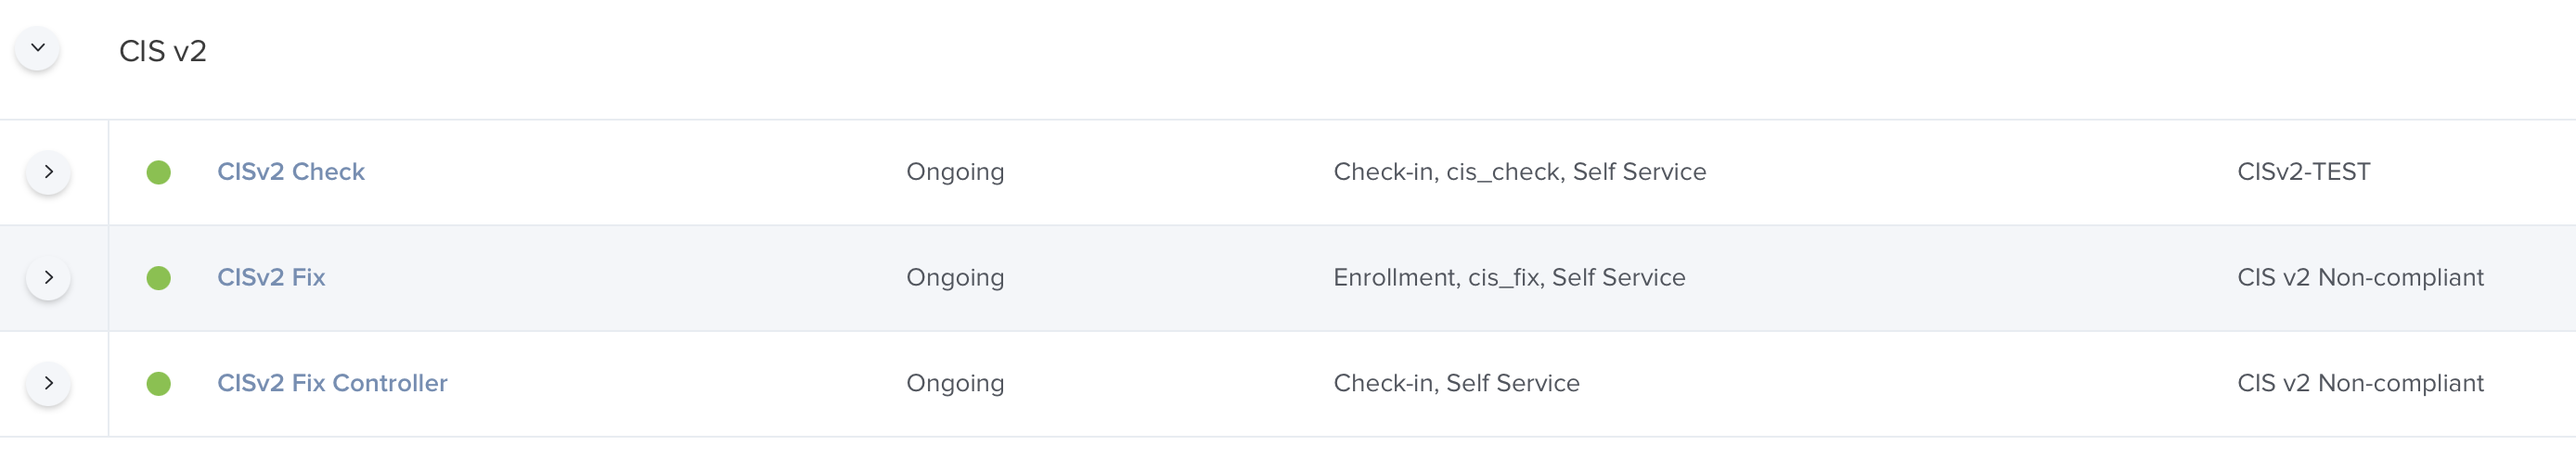
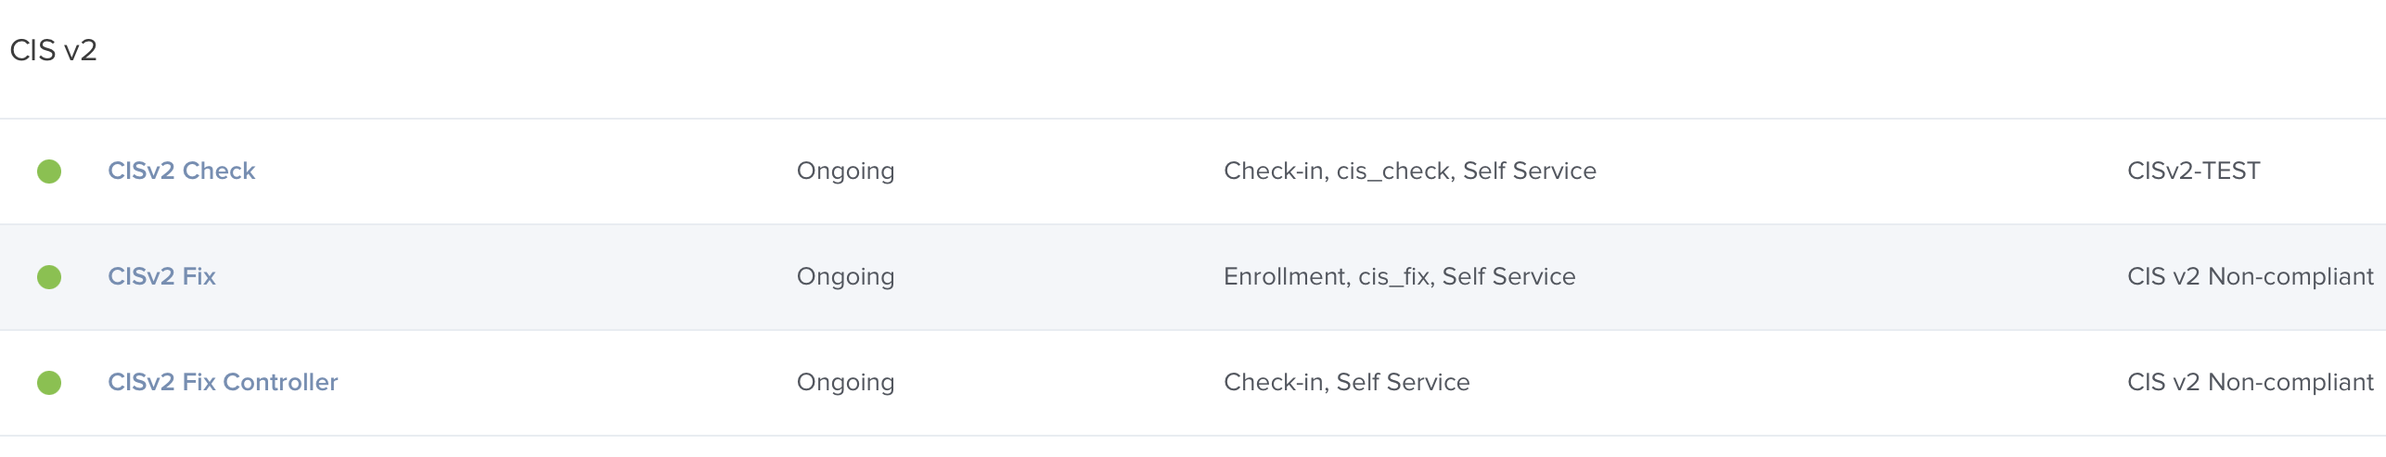
Added screenshots

diff --git a/HOWTO.md b/HOWTO.md
@@ -64,7 +64,7 @@ Now go through the rules a second time.
 
 Some of the rules you can't set it in the Jamf GUI but you can set with a custom settings upload. For these create a separate config profile titled with the number and name of the rule. 
 
-An example of this would be the rule I have, "7.06 Enable Firewall Logging". You can see in the "Remediation Description" that we should create a config profile and the payload is `com.apple.security.firewall`. Look in the directory `build\cis_lvl2_puck\mobileconfigs\preferences` for a file with the same name as the payload. Create the profile "7.0.6 Enable Firewall Logging" and in the section "Application & Custom Settings" add an "Upload". The "Preference Domain" is the name of our file (minus the ".plist") and the contents of the file is copied in to the "Property List" field. Save the profile.
+An example of this would be the rule I have, "7.06 Enable Firewall Logging". You can see in the "Remediation Description" that we should create a config profile and the payload is `com.apple.security.firewall`. Look in the directory `build\cis_lvl2_puck\mobileconfigs\preferences` for a file with the same name as the payload. Create the profile "7.0.6 Enable Firewall Logging" and in the section "Application & Custom Settings" add an "Upload". The "Preference Domain" is the name of our file (minus the ".plist") and the contents of the file is copied into the "Property List" field. Save the profile.
 
 This is the last of the truly tedious stuff.
 
@@ -125,10 +125,11 @@ It should be said that the compliance script contains a method for finding the c
 Now for a Smart Group that looks at the audit count.
 - Name: CIS v2 - Non-compliant
 - Criteria: EA cis v2 - Audit Count > 0
-
+#####
+![Smart Group](smartgroup.png)
 ##### Policies
 
-We want three policies. The first one run is "CISv2 Fix". It runs at enrollment complete and with a custom trigger of `cis_fix`. Then we have "CISv2 Check" which runs at Check-in and has a custom trigger of `cis_check`. These two policies run the compliance script. One with `--check` in the options while the other has `--fix`
+We want three policies. The first one run is "CISv2 Fix". It runs at enrollment complete and with a custom trigger of `cis_fix`. Then we have "CISv2 Check" which runs at Check-in and has a custom trigger of `cis_check`. These two policies run the compliance script. `cis_check` has `--check` in the options while the other has `--fix`
 
 Our final policy, "CISv2 Fix Controller", runs at Check-in and is scoped to "CIS v2 Non-compliant". This policy runs a script:
 ```
@@ -151,11 +152,14 @@ jamf policy -event cis_check
 jamf recon
 ```
 
-In my SOE I use `/Library/Management` as a place for all the bits and pieces I use such as the  company logo. If you use a different spot use that.
+In my SOE I use `/Library/Management` as a place for all the bits and pieces I use such as the company logo. If you use a different spot use that.
 
 The first half of the script logs the date and a list of the non-compliant rules to a text file. We can read `/Library/Management/cisfixlog.txt` in an EA if we want. Having this makes security happy as you are logging every breach.
 
 The second half is running `jamf` three times. You can see that we run the remediation, then run the check again. This check *should* pick up that the Mac is now compliant and write that out to our audit plist. Now a `jamf recon` will update our two EAs by making them run again. That means the Mac is no longer a member of our smart group.
+
+##### _Our policy list_
+![three policies in the policy list](policylist.png)
 ##### Testing
 
 For preliminary testing I turn on Self Service for the three policies. I also edit any other security policies and set them to exclude our test group, we want to be sure we get a clean test.
